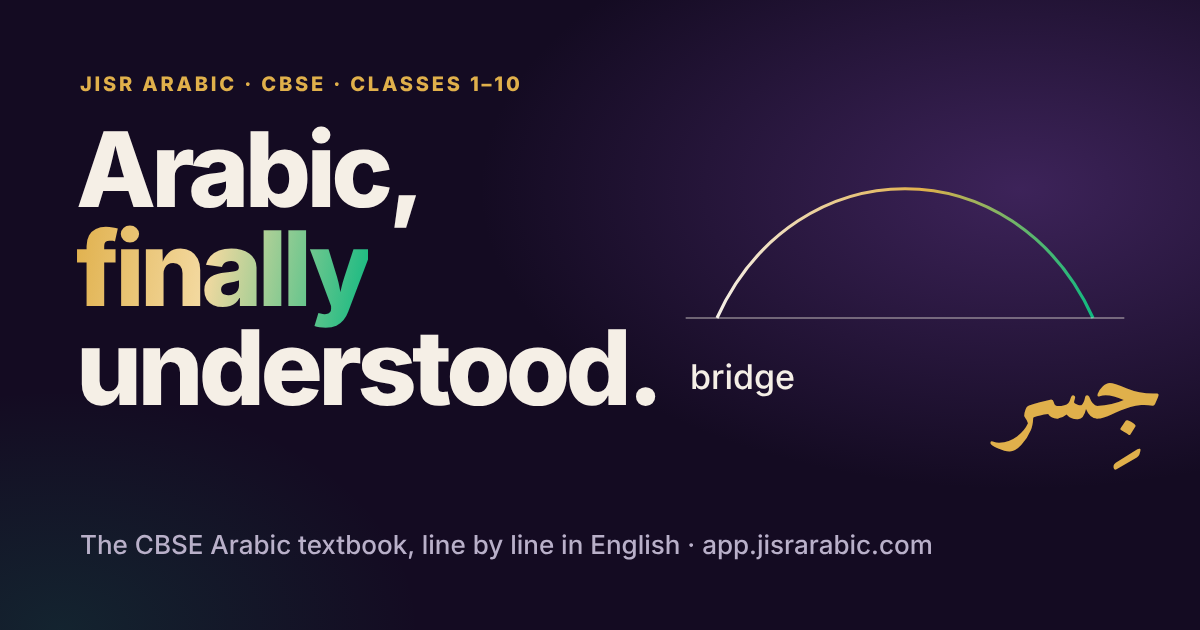
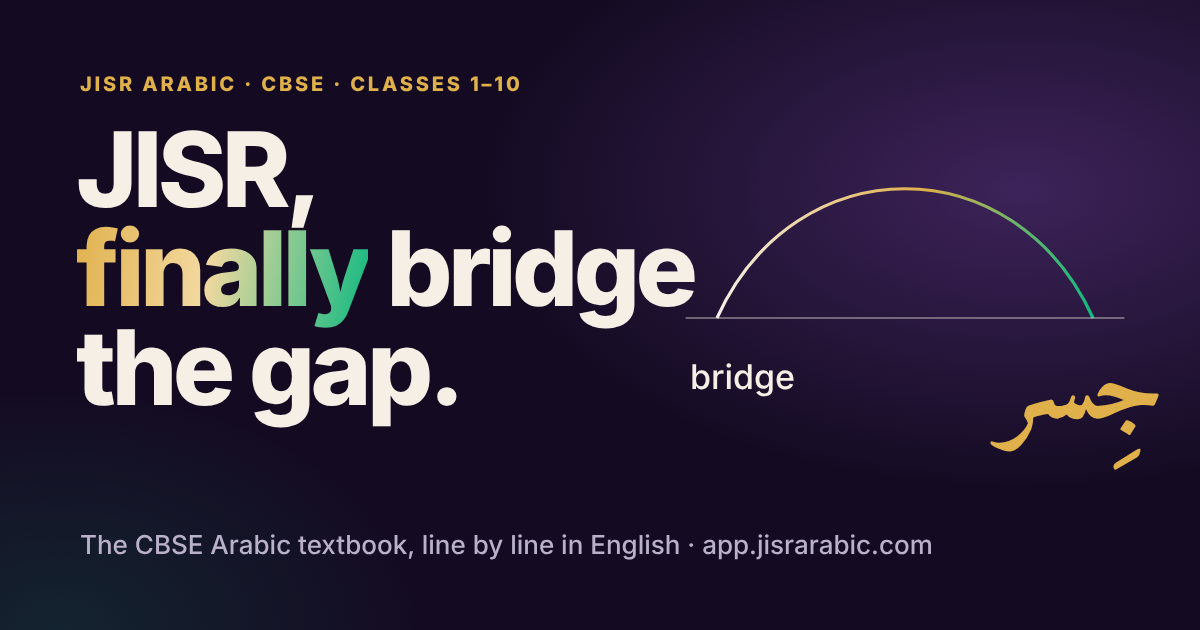
Make /welcome the front door; new headline; JISR branding on sign-in (#50)
- Every signed-out visit to the site now opens the welcome page and the
  address bar shows /welcome. A guest who enters the app ("Try a free
  lesson", "Sign in") stays in it for the rest of that browser session;
  signing out returns to /welcome. Signed-in users and deep links
  (?grade=, ?payment=, #admin) still go straight to the app. Replaces
  the old "remember forever and skip the landing" flag.
- Hero headline: "JISR, finally bridge the gap." (also in the share
  image, Open Graph/Twitter titles and the noscript fallback).
- Sign-in/sign-up modal: "Fahim" -> "JISR" in the subtitle, tip and
  account title.
- Remove the "EMIRATES EDTECH" line from the app logo (logo.svg,
  logo-512.svg).
- e2e/landing_check.mjs covers the new routing rules.

Claude-Session: https://claude.ai/code/session_014TCCtrJKWzAQJvfD1SDpd1

Changed region(s): [[0.0617, 0.181, 0.5858, 0.6937]]

diff --git a/frontend/src/entry/Root.tsx b/frontend/src/entry/Root.tsx
@@ -7,21 +7,31 @@ const Landing = lazy(() => import('../components/landing/Landing'));
 
 export type EnterIntent = 'signup' | 'login' | 'explore';
 
-const ENTERED_KEY = 'jisr_entered_app';
+// Set when a signed-out visitor chooses to go into the app ("Try a free lesson", "Sign in"…).
+// Session-scoped on purpose: every new visit starts on the welcome page.
+const IN_APP_KEY = 'jisr_in_app';
+export const WELCOME_PATH = '/welcome';
 
 function readStorage(store: 'local' | 'session', key: string): string | null {
   try { return (store === 'local' ? window.localStorage : window.sessionStorage).getItem(key); } catch { return null; }
 }
 
-/** The landing page is for signed-out visitors arriving at the bare root (or anyone at /welcome).
- *  Deep links (?grade=, ?payment=, #admin…), sessions and returning learners go straight to the app. */
+/** Signed-out visitors start every visit on the welcome page (/welcome), which is also always
+ *  reachable directly. Signed-in users, deep links (?grade=, ?payment=, #admin…) and guests who
+ *  already chose to enter the app this session go to the app. */
 export function shouldShowLanding(loc: Pick<Location, 'pathname' | 'search' | 'hash'> = window.location): boolean {
   const path = loc.pathname.replace(/\/+$/, '') || '/';
-  if (path === '/welcome') return true;
+  if (path === WELCOME_PATH) return true;
   if (path !== '/' || loc.search || loc.hash) return false;
   if (readStorage('local', 'fahim_token')) return false;
-  if (readStorage('local', ENTERED_KEY)) return false;
+  if (readStorage('session', IN_APP_KEY)) return false;
   return true;
+}
+
+/** Leave the app for the welcome page (used on sign-out). */
+export function goToWelcome() {
+  try { window.sessionStorage.removeItem(IN_APP_KEY); } catch { /* ignore */ }
+  window.location.assign(WELCOME_PATH);
 }
 
 const Loading = () => (
@@ -31,10 +41,19 @@ const Loading = () => (
 );
 
 export function Root() {
-  const [landing, setLanding] = useState(shouldShowLanding);
+  const [landing, setLanding] = useState(() => {
+    const show = shouldShowLanding();
+    // Keep the address bar on /welcome so the welcome page is always the page people see and share.
+    if (show && window.location.pathname !== WELCOME_PATH) window.history.replaceState(null, '', WELCOME_PATH);
+    return show;
+  });
+
+  useEffect(() => {
+    try { window.localStorage.removeItem('jisr_entered_app'); } catch { /* old "skip the landing" flag */ }
+  }, []);
 
   const enterApp = useCallback((intent: EnterIntent) => {
-    try { window.localStorage.setItem(ENTERED_KEY, '1'); } catch { /* private mode: fine */ }
+    try { window.sessionStorage.setItem(IN_APP_KEY, '1'); } catch { /* private mode: fine */ }
     const url = intent === 'explore' ? '/' : `/?auth=${intent}`;
     window.history.pushState(null, '', url);
     window.scrollTo(0, 0);

diff --git a/frontend/index.html b/frontend/index.html
@@ -17,16 +17,16 @@
     <meta property="og:type" content="website" />
     <meta property="og:site_name" content="JISR Arabic" />
     <meta property="og:url" content="https://app.jisrarabic.com/" />
-    <meta property="og:title" content="JISR Arabic: Arabic, finally understood." />
+    <meta property="og:title" content="JISR, finally bridge the gap." />
     <meta property="og:description" content="The CBSE Arabic textbook, line by line in English, with native audio for every word. Classes 1–10, UAE. First chapter free." />
     <meta property="og:image" content="https://app.jisrarabic.com/og-image.png" />
     <meta property="og:image:width" content="1200" />
     <meta property="og:image:height" content="630" />
-    <meta property="og:image:alt" content="Arabic, finally understood. A bridge joining the English word bridge to the Arabic word jisr." />
+    <meta property="og:image:alt" content="JISR, finally bridge the gap. A bridge joining the English word bridge to the Arabic word jisr." />
     <meta property="og:locale" content="en_AE" />
     <meta property="og:locale:alternate" content="ar_AE" />
     <meta name="twitter:card" content="summary_large_image" />
-    <meta name="twitter:title" content="JISR Arabic: Arabic, finally understood." />
+    <meta name="twitter:title" content="JISR, finally bridge the gap." />
     <meta name="twitter:description" content="The CBSE Arabic textbook, line by line in English, with native audio for every word." />
     <meta name="twitter:image" content="https://app.jisrarabic.com/og-image.png" />
 
@@ -65,7 +65,7 @@
     <div id="app"></div>
     <noscript>
       <main style="font-family:system-ui,sans-serif;max-width:640px;margin:48px auto;padding:0 20px;line-height:1.6">
-        <h1>JISR Arabic: Arabic, finally understood.</h1>
+        <h1>JISR, finally bridge the gap.</h1>
         <p>Your child’s CBSE Arabic textbook, line by line in English, with native audio for every word. For non-native learners in UAE schools, Classes 1–10.</p>
         <p>One term costs $10; the full year (3 terms) costs $25.50. The first chapter of every term is free.</p>
         <p>Please turn on JavaScript to use JISR.</p>

diff --git a/frontend/src/components/auth/AuthModal.tsx b/frontend/src/components/auth/AuthModal.tsx
@@ -303,10 +303,10 @@ export const AuthModal: React.FC<AuthModalProps> = ({
           <img src="/logo.svg" alt="JISR Arabic" width={88} height={88} className="w-[88px] h-[88px] mb-2 rounded-2xl shadow-md object-cover hover:scale-105 transition-transform" />
 
           <h2 className="text-2xl font-black text-slate-900 tracking-tight">
-            {mode === 'login' ? 'Login' : mode.startsWith('signup') ? 'Create Account' : mode === 'add_child' ? 'Add Child Profile' : 'Fahim Account'}
+            {mode === 'login' ? 'Login' : mode.startsWith('signup') ? 'Create Account' : mode === 'add_child' ? 'Add Child Profile' : 'JISR Account'}
           </h2>
           <p className="text-xs text-slate-500 mt-0.5">
-            Start your learning journey with Fahim
+            Start your learning journey with JISR
           </p>
         </div>
 
@@ -1096,7 +1096,7 @@ export const AuthModal: React.FC<AuthModalProps> = ({
           {/* Bottom Inspirational Card (Screenshot 2, 3, 4) */}
           <div className="bg-[#F5F3FF] border border-[#DDD6FE] rounded-2xl p-3.5 flex items-center gap-3 text-xs text-[#5E35B1] font-medium mt-3">
             <Lightbulb className="w-5 h-5 shrink-0 text-[#7C3AED]" />
-            <span>Success starts with one step, stay with Fahim!</span>
+            <span>Success starts with one step, stay with JISR!</span>
           </div>
         </div>
       </div>

diff --git a/frontend/src/components/landing/landing.css b/frontend/src/components/landing/landing.css
@@ -161,7 +161,8 @@
   background-image: radial-gradient(rgba(245, 239, 230, 0.07) 1px, transparent 1px);
   background-size: 3px 3px;
 }
-.jl-hero__grid { display: grid; grid-template-columns: 1.05fr 1fr; gap: clamp(32px, 5vw, 80px); align-items: center; }
+.jl-hero__grid { display: grid; grid-template-columns: 1.25fr 0.9fr; gap: clamp(32px, 5vw, 80px); align-items: center; }
+.jl-hero .jl-display { font-size: clamp(2.7rem, 6.2vw, 5.6rem); }
 .jl-hero .jl-eyebrow { color: var(--gold); display: inline-flex; align-items: center; gap: 10px; }
 .jl-dot { width: 8px; height: 8px; background: var(--emerald); box-shadow: 0 0 0 4px rgba(16, 185, 129, 0.2); animation: jl-pulse 2.4s var(--ease) infinite; }
 .jl-hero .jl-lede { color: var(--muted-dark); margin-top: 28px; }

diff --git a/frontend/src/App.tsx b/frontend/src/App.tsx
@@ -23,6 +23,7 @@ import { ProfileView } from './components/profile/ProfileView';
 import { SubscriptionView } from './components/profile/SubscriptionView';
 import { User, ChildProfile, AuthResponse, LearningPlan } from './types';
 import { api, API_BASE } from './services/api';
+import { goToWelcome } from './entry/Root';
 
 export function App() {
   const [accessNotice, setAccessNotice] = useState('');
@@ -215,6 +216,7 @@ export function App() {
     localStorage.removeItem('fahim_token');
     setUser(null);
     setActiveChild(null);
+    goToWelcome();
   };
 
   const handleSelectLesson = (lessonId: string) => {

diff --git a/frontend/src/components/landing/Hero.tsx b/frontend/src/components/landing/Hero.tsx
@@ -92,7 +92,7 @@ export function Hero({ onEnter }: { onEnter: (i: EnterIntent) => void }) {
             <span className="jl-dot" aria-hidden="true" /> CBSE Arabic · Classes 1–10 · UAE
           </p>
           <h1 id="jl-hero-title" className="jl-display jl-rise" style={{ ['--d' as string]: 1 }}>
-            Arabic,<br /><em>finally</em> understood.
+            JISR,<br /><em>finally</em> bridge<br /> the gap.
           </h1>
           <p className="jl-lede jl-rise" style={{ ['--d' as string]: 2 }}>
             Your child’s CBSE Arabic textbook, line by line in English, with a native voice for every word.

diff --git a/docs/experience/JOURNEY.md b/docs/experience/JOURNEY.md
@@ -45,7 +45,7 @@ child's confidence.
 
 | # | Stage | Visitor's question | What they see/do | Success signal |
 |---|---|---|---|---|
-| 1 | **Arrive** (`/`, signed-out) | "What is this?" | Hero: "Arabic, finally understood." The bridge draws from *bridge* to **جِسْر**. Primary CTA *Start free*, secondary *Try a free lesson* | Scrolls or clicks within 5s |
+| 1 | **Arrive** (`/welcome`, signed-out) | "What is this?" | Hero: "JISR, finally bridge the gap." The bridge draws from *bridge* to **جِسْر**. Primary CTA *Start free*, secondary *Try a free lesson* | Scrolls or clicks within 5s |
 | 2 | **Feel it** | "Does it actually help my child?" | Live word demo: tap any Arabic word to hear it, see transliteration and meaning; the real product interaction | Taps ≥1 word |
 | 3 | **Understand** | "How does it work?" | Scroll story (sticky): *The textbook page* → *Line by line, in English* → *Practise until it sticks* | Reaches step 3 |
 | 4 | **Trust** | "Is it aligned with school?" | CBSE curriculum, Classes 1–10, three terms; parent dashboard; receipts & UAE tax invoices | Opens curriculum or parent section |
@@ -57,8 +57,9 @@ child's confidence.
 | 10 | **Unlock** (app) | — | Paywall on chapter 2 → Stripe checkout → receipt + tax invoice | Paid term |
 | 11 | **Master** (app) | "Is my child improving?" | Mastery heatmap, ranks & badges, exam simulation, parent progress | Weekly return |
 
-Returning learners and anyone with a session skip stages 1–7 and go straight to the app.
-The landing stays available at `/welcome`.
+Every signed-out visit starts on the welcome page at `/welcome` (the bare domain redirects there).
+Signed-in users and deep links go straight to the app; a guest who enters the app stays there for
+the rest of that browser session; signing out returns to `/welcome`.
 
 ## 4. Build stages (each verified before the next)
 
